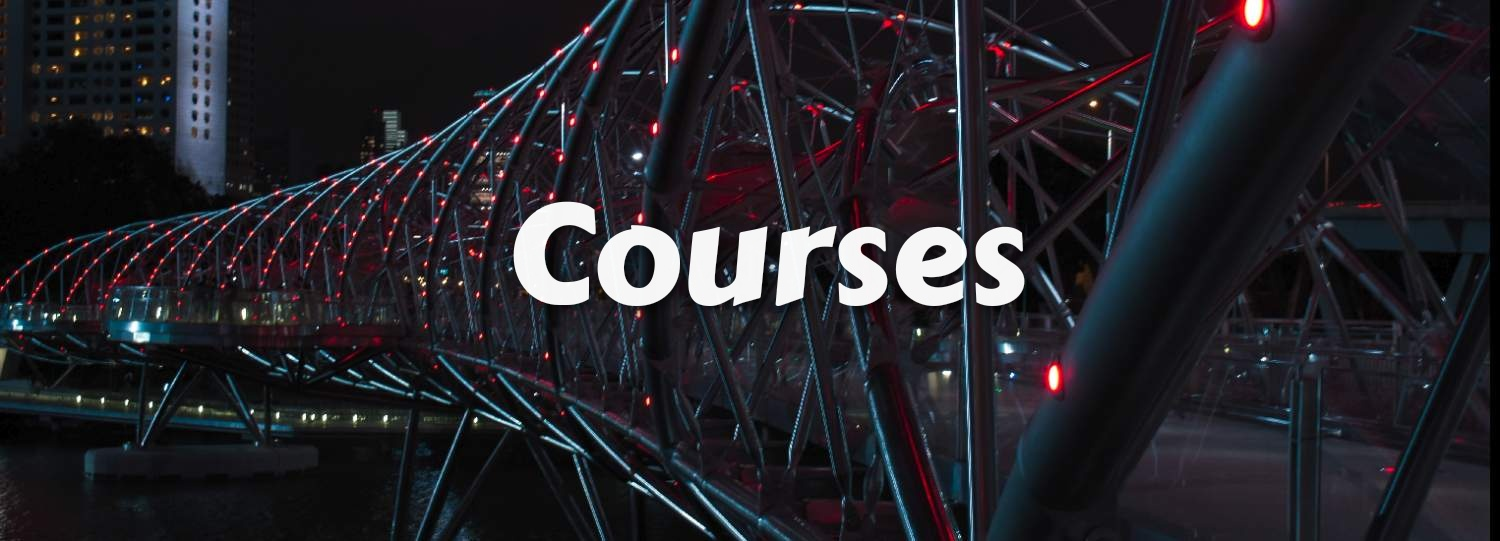
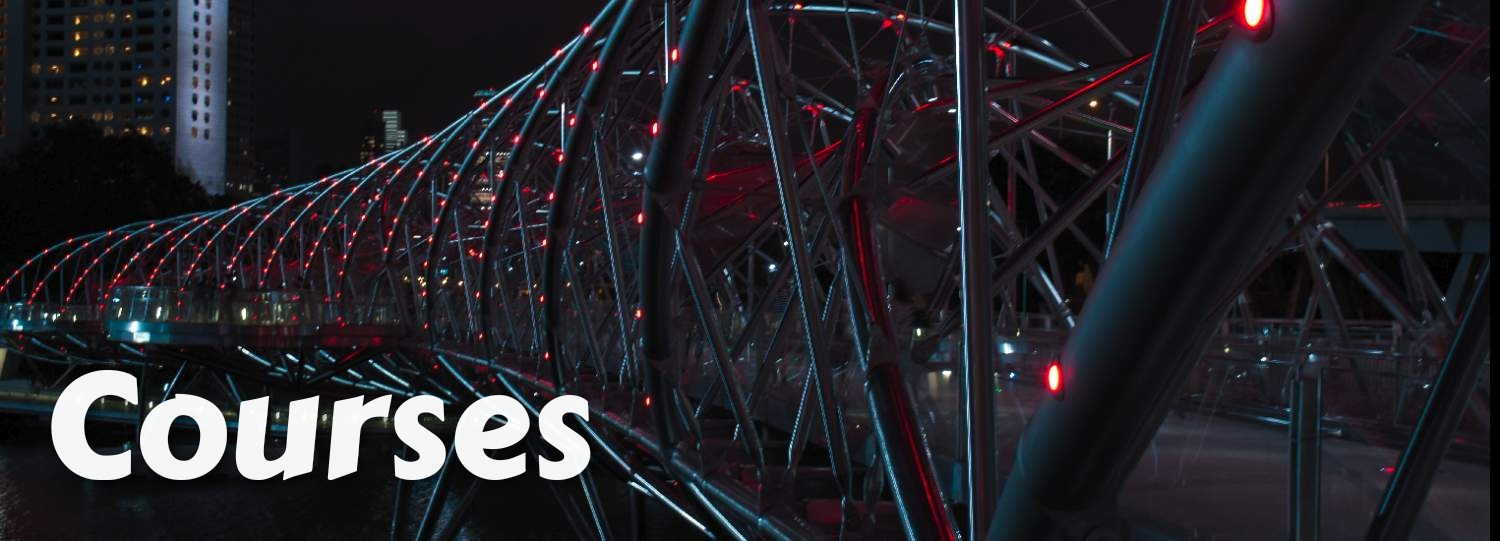
added images to new course and book landing pages

Changed region(s): [[0.0307, 0.6802, 0.3987, 0.8872], [0.3373, 0.3549, 0.7053, 0.5915]]

diff --git a/_pages/books.md b/_pages/books.md
@@ -20,10 +20,13 @@ Here you will find a list of some of my most favorite books that have drasticall
 - Rich Dad Poor Dad by Robert Kiyosaki
 - Think and Grow Rich by Napoleon Hills
 * Who ate my cheese by Spencer Johnson
-- The power of the Subconscious Mind by Dr. Joselph Murphy.
+- The power of the Subconscious Mind by Dr. Joseph Murphy.
 - The Alchemist by Paul Coelho
 - The Seven Habits of Highly Effective People by Stephen R. Covey
 - The Road Less Traveled by M.Scott Peck
 
 ## Current Book I am Reading.
 - The Miracle Morning by Hal Elrod. Expected Date of Completion 17-07-2020
+
+## Which Book to Read Next?
+At the moment, I don't know. I will love to know some of the books that have changed your lives. Please, share with me at the comments section of this page.
